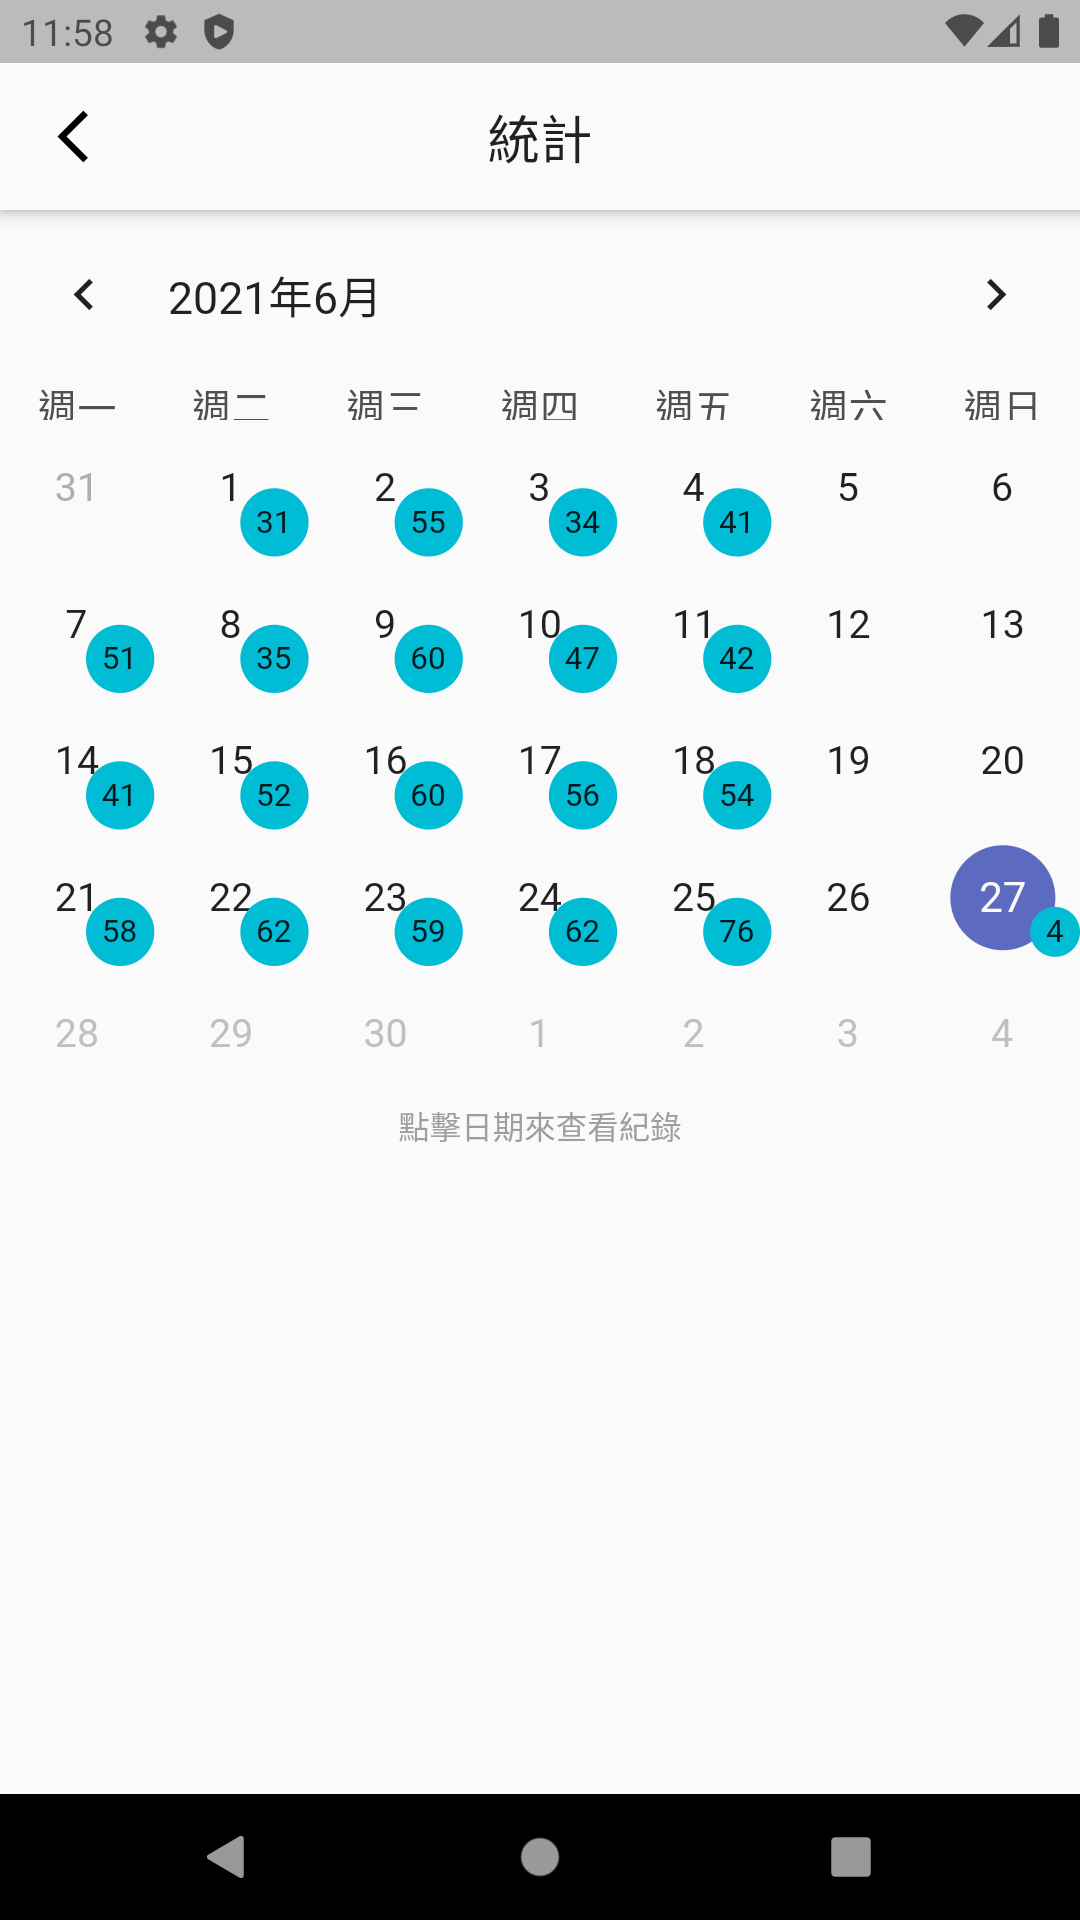
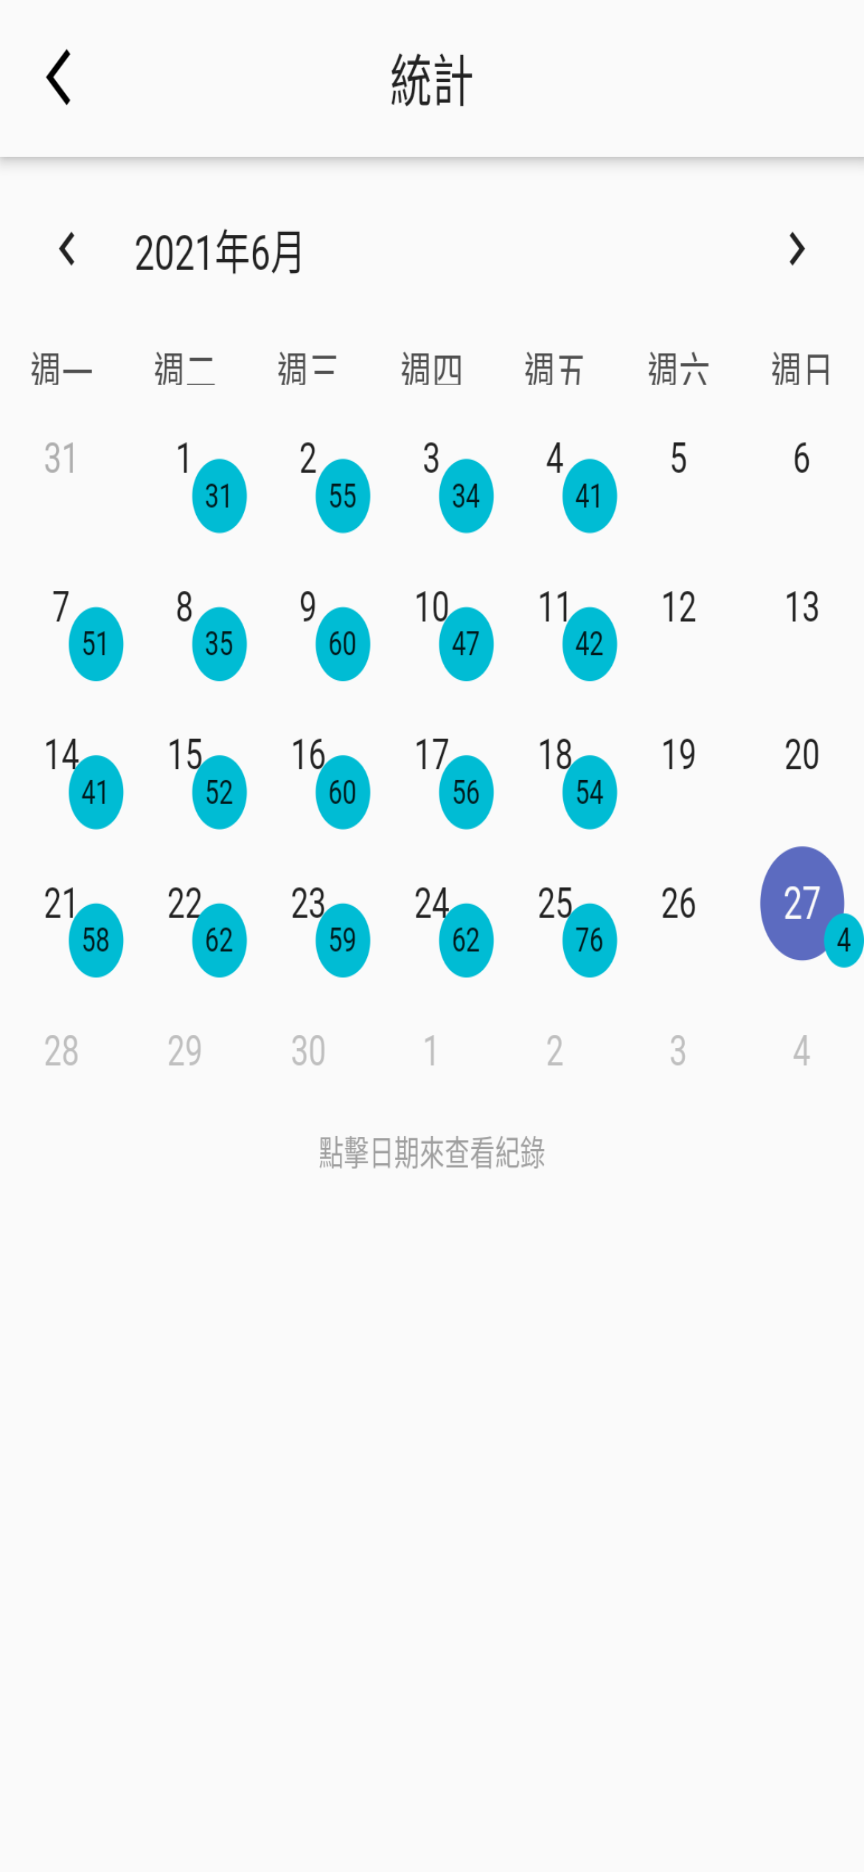
Add python code to generate image

diff --git a/docs/paint_introduce.py b/docs/paint_introduce.py
@@ -1,0 +1,45 @@
+import os
+from PIL import Image
+from PIL import ImageDraw
+from PIL import ImageFont
+
+baseFolder = os.path.dirname(__file__)
+folder = os.path.join(
+    baseFolder,
+    "../android/fastlane/metadata/android/zh-TW/images/phoneScreenshots",
+)
+space = 60
+
+images = [
+    Image.open("%s/%s" % (folder, x))
+    for x in ["2_menu_product.png", "3_order.png", "7_analytics_dark.png"]
+]
+textList = ["設定產品", "點餐", "統計點餐紀錄"]
+widths, heights = zip(*(i.size for i in images))
+
+# with space between images and around
+total_width = sum(widths) + (len(images) - 1) * space + space
+max_height = max(heights)
+
+# more space for text
+new_im = Image.new("RGBA", (total_width, max_height + 100), (255, 0, 0, 0))
+
+x_offset = space // 2
+for im in images:
+    new_im.paste(im, (x_offset, 0))
+    x_offset += im.size[0] + space
+
+draw = ImageDraw.Draw(new_im)
+font = ImageFont.truetype("/System/Library/Fonts/Supplemental/Arial Unicode.ttf", 50)
+x_offset = space // 2
+for text, im in zip(textList, images):
+    w, h = draw.textsize(text, font=font)
+    draw.text(
+        (x_offset + im.size[0] // 2 - w // 2, im.size[1] + 10),
+        text,
+        (220, 53, 69),
+        font=font,
+    )
+    x_offset += im.size[0] + space
+
+new_im.save(os.path.join(baseFolder + "/images/index-introduction.png"))
